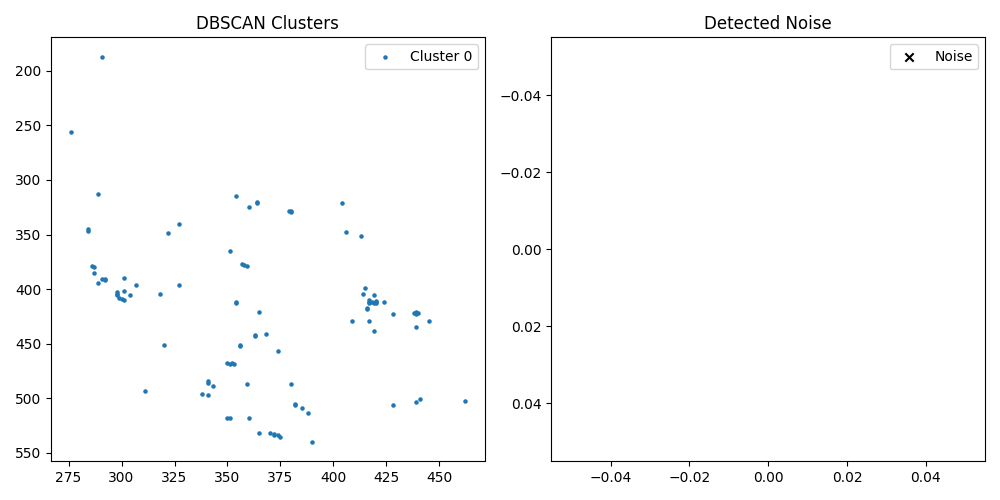
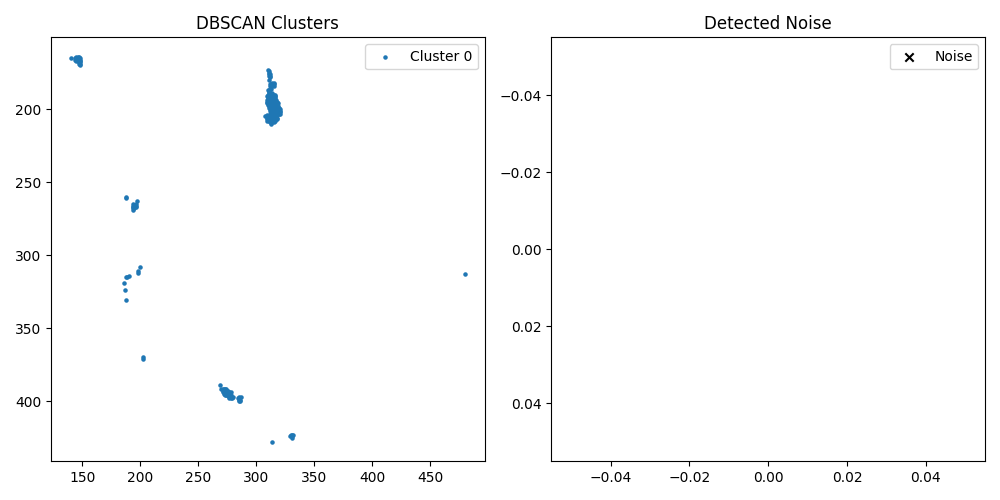
Optical flow and DBSCAN clustering implementation 	new file:   .gitignore 	modified:   dbscan_clusters.png 	modified:   main.py 	new file:   requirements.txt

diff --git a/main.py b/main.py
@@ -17,31 +17,6 @@ from sklearn.cluster import DBSCAN
 root = tk.Tk()
 root.withdraw()
 
-# Select folder
-# folder_path = filedialog.askdirectory(title='Select folder containing Cine files')
-
-# if not folder_path:
-#     print('Folder selection was canceled.')
-#     exit()
-
-# # start testpoint and ending testpoint
-# startT = 1
-# endT = 1
-
-# for t in range(startT, endT + 1):
-#     t_str = f"T{t}"
-#     file_pattern = os.path.join(folder_path, f"{t_str}_*")
-    
-#     matching_files = glob.glob(file_pattern)
-    
-#     all_files = []
-#     for file in matching_files:
-#         all_files.append(file)
-    
-#     name, ext = os.path.splitext(os.path.basename(all_files[0]))
-#     input_file = [name + ext]  # list with one element
-#     number_of_image_files = len(all_files)
-
 all_files = filedialog.askopenfilenames(title="Select one or more files")
 
 for file in all_files:
@@ -100,7 +75,6 @@ for file in all_files:
     rotation_matrix = cv2.getRotationMatrix2D(center, angle, scale)
     
     firstFrame = video[4]
-    video_strip = []
     bg_subtractor = cv2.createBackgroundSubtractorKNN()
     bg_subtractor.setHistory(30) #set amount of frames to affect the subtraction
     for i in range(nframes):
@@ -199,73 +173,127 @@ for file in all_files:
         #     outline = cnt.reshape(-1, 2).tolist()  # Convert contour points to a list of [x, y]
         #     centers.append(outline)
 
-        # contours, _ = cv2.findContours(binary, cv2.RETR_EXTERNAL, cv2.CHAIN_APPROX_SIMPLE)
+        contours, _ = cv2.findContours(binary, cv2.RETR_EXTERNAL, cv2.CHAIN_APPROX_SIMPLE)
 
-        # # Get outline points of contours
-        # outlines = []
-        # for cnt in contours:
-        #     outline = cnt.reshape(-1, 2).tolist()
-        #     outlines.append(outline)
+        # Get outline points of contours
+        outlines = []
+        for cnt in contours:
+            outline = cnt.reshape(-1, 2).tolist()
+            outlines.append(outline)
 
-        # # Flatten all outline points into a single list for hull calculation
-        # all_points = [pt for outline in outlines for pt in outline]
+        # Flatten all outline points into a single list for hull calculation
+        all_points = [pt for outline in outlines for pt in outline]
 
-        # # Create a blank canvas (same size as binary)
-        # canvas = np.zeros_like(binary)
+        # Create a blank canvas (same size as binary)
+        canvas = np.zeros_like(binary)
 
-        # # Optimize line drawing using Convex Hull if enough points
-        # if len(all_points) >= 3:
-        #     hull = ConvexHull(all_points)
-        #     hull_points = [all_points[i] for i in hull.vertices]
-        #     for i in range(len(hull_points)):
-        #         pt1 = tuple(hull_points[i])
-        #         pt2 = tuple(hull_points[(i + 1) % len(hull_points)])
-        #         cv2.line(canvas, pt1, pt2, 255, thickness=1)
-        # else:
-        #     # Fallback to pairwise connection for few points
-        #     for i in range(len(all_points)):
-        #         for j in range(i + 1, len(all_points)):
-        #             cv2.line(canvas, tuple(all_points[i]), tuple(all_points[j]), 255, thickness=1)
+        # Optimize line drawing using Convex Hull if enough points
+        if len(all_points) >= 3:
+            hull = ConvexHull(all_points)
+            hull_points = [all_points[i] for i in hull.vertices]
+            for i in range(len(hull_points)):
+                pt1 = tuple(hull_points[i])
+                pt2 = tuple(hull_points[(i + 1) % len(hull_points)])
+                cv2.line(canvas, pt1, pt2, 255, thickness=1)
+        else:
+            # Fallback to pairwise connection for few points
+            for i in range(len(all_points)):
+                for j in range(i + 1, len(all_points)):
+                    cv2.line(canvas, tuple(all_points[i]), tuple(all_points[j]), 255, thickness=1)
 
-        # # Fill the enclosed area
-        # # contours_fill, _ = cv2.findContours(canvas, cv2.RETR_EXTERNAL, cv2.CHAIN_APPROX_SIMPLE)
-        # # cv2.drawContours(canvas, contours_fill, -1, 255, thickness=cv2.FILLED)
+        # Fill the enclosed area
+        # contours_fill, _ = cv2.findContours(canvas, cv2.RETR_EXTERNAL, cv2.CHAIN_APPROX_SIMPLE)
+        # cv2.drawContours(canvas, contours_fill, -1, 255, thickness=cv2.FILLED)
 
-        # # Show result
-        # overlay = cv2.addWeighted(frame, 1, canvas, 1, 0)
+        # Show result
+        overlay = cv2.addWeighted(frame, 1, canvas, 1, 0)
 
-        # cv2.imshow('connected blob', overlay)
-        # if cv2.waitKey(60) & 0xFF == ord('q'):
-        #     break
-
-        #frame = cv2.subtract(video[i], firstFrame)
-
-        rotated_image = cv2.warpAffine(frame, rotation_matrix, (width, height))
-        strip = rotated_image[y_start:y_end, x_start:x_end]
-        video_strip.append(strip)
-
-    for i in range(nframes):
-
-        blurred = cv2.GaussianBlur(video_strip[i], (5, 5), 0)
-        _, binary = cv2.threshold(blurred, 0, 255, cv2.THRESH_BINARY + cv2.THRESH_OTSU)
-
-        cv2.imshow('binary Image', binary)
+        cv2.imshow('connected blob', overlay)
         if cv2.waitKey(60) & 0xFF == ord('q'):
             break
 
+        #frame = cv2.subtract(video[i], firstFrame)
+
+    # Create rotated video strip
+    video_strip = []
+    for i in range(nframes):
+        frame = video[i]
+        rotated_image = cv2.warpAffine(frame, rotation_matrix, (width, height))
+        #strip = rotated_image[y_start:y_end, x_start:x_end]
+        strip = rotated_image
+        video_strip.append(strip)
+
+    # Basic thresholding visualization
+    # for i in range(nframes):
+
+    #     blurred = cv2.GaussianBlur(video_strip[i], (5, 5), 0)
+    #     _, binary = cv2.threshold(blurred, 0, 255, cv2.THRESH_BINARY + cv2.THRESH_OTSU)
+
+    #     cv2.imshow('binary Image', binary)
+    #     if cv2.waitKey(60) & 0xFF == ord('q'):
+    #         break
+
+    first_frame = video_strip[0]
+    if len(first_frame.shape) == 3:
+        prev_gray = cv2.cvtColor(first_frame, cv2.COLOR_BGR2GRAY)
+    else:
+        prev_gray = first_frame.copy()
+
+    # Create HSV image for visualization (3 channels)
+    hsv = np.zeros((prev_gray.shape[0], prev_gray.shape[1], 3), dtype=np.uint8)
+    hsv[..., 1] = 255  # full saturation for color visualization
+
+    for i in range(nframes):
+        frame = video_strip[i]
+
+        if len(frame.shape) == 3:
+            gray = cv2.cvtColor(frame, cv2.COLOR_BGR2GRAY)
+        else:
+            gray = frame.copy()
+
+        # Compute dense optical flow using Farnebäck method
+        flow = cv2.calcOpticalFlowFarneback(prev_gray, gray, 
+                                            None,
+                                            0.5,  # pyramid scale
+                                            3,    # levels
+                                            15,   # window size
+                                            3,    # iterations
+                                            5,    # poly_n
+                                            1.2,  # poly_sigma
+                                            0)    # flags
+
+        # Convert flow to polar coordinates (magnitude and angle)
+        mag, ang = cv2.cartToPolar(flow[..., 0], flow[..., 1])
+
+        # Use hue to encode direction and value to encode magnitude
+        hsv[..., 0] = ang * 180 / np.pi / 2
+        hsv[..., 2] = cv2.normalize(mag, None, 0, 255, cv2.NORM_MINMAX)
+
+        motion_intensity = cv2.normalize(mag, None, 0, 255, cv2.NORM_MINMAX)
+        motion_intensity = np.uint8(motion_intensity)
+
+        rgb_flow = cv2.cvtColor(hsv, cv2.COLOR_HSV2BGR)
+
+        # Display
+        cv2.imshow('Original', frame)
+        cv2.imshow('Optical Flow', rgb_flow)
+        cv2.imshow('Optical Flow (Motion Intensity)', motion_intensity)
+
+        if cv2.waitKey(60) & 0xFF == ord('q'):
+            break
+
+        # Set previous frame to current
+        prev_gray = gray
+
+
+        # blurred = cv2.GaussianBlur(motion_intensity, (5, 5), 0)
+        # _, binary = cv2.threshold(blurred, 0, 255, cv2.THRESH_BINARY + cv2.THRESH_OTSU)
+
+        # cv2.imshow('binary Image', binary)
+        # if cv2.waitKey(60) & 0xFF == ord('q'):
+        #     break
+
     cv2.destroyAllWindows()
-
-
-
-# # Generate synthetic binary signal data (scattered points)
-# np.random.seed(42)
-# cluster1 = np.random.normal(loc=[30, 30], scale=5, size=(50, 2))
-# cluster2 = np.random.normal(loc=[70, 70], scale=5, size=(50, 2))
-# noise = np.random.uniform(low=0, high=100, size=(20, 2))
-# data = np.vstack([cluster1, cluster2, noise])
-
-
-
 
                                     
             
